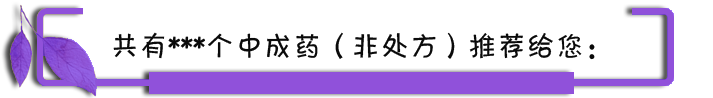
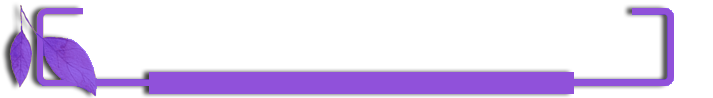
列表页面完善

Changed region(s): [[0.1543, 0.3367, 0.8331, 0.6122]]

diff --git a/lib/search_result.dart b/lib/search_result.dart
@@ -62,7 +62,7 @@ class ResultState extends State<ResultStatePage> {
     if (searchResult == null) {
       return Center(child: CircularProgressIndicator());
     } else {
-      print("getBody dataList lentth:${dataList.length}");
+      print("getBody dataList lentth:${dataList[0].data.toString()}");
       return new ListView.builder(
           itemCount: dataList.length,
           itemBuilder: (BuildContext context, int position) {
@@ -89,6 +89,7 @@ class ResultState extends State<ResultStatePage> {
                   style: TextStyle(
                       fontWeight: FontWeight.normal,
                       color: Colors.black,
+                      decoration: TextDecoration.none,
                       fontSize: 18),
                 ),
                 KeyWordView(submitWords, fun),
@@ -134,9 +135,8 @@ class ResultState extends State<ResultStatePage> {
         .add(ListItemData(ListItemData.TYPE_CHECKBOX, sResult.diseaseWords));
     var size = sResult.resultlist?.gridModel?.length;
     print("共有$size个中成药（非处方）推荐给您");
-    var data =
-        ListItemData(ListItemData.TYPE_ITEM_TITLE, "共有$size个中成药（非处方）推荐给您：");
-    dataList.add(data);
+    dataList.add(
+        ListItemData(ListItemData.TYPE_ITEM_TITLE, "共有$size个中成药（非处方）推荐给您："));
 
     List<GridModel> gridList = sResult?.resultlist?.gridModel;
     print("gridList length ${gridList.length}");
@@ -148,19 +148,116 @@ class ResultState extends State<ResultStatePage> {
   }
 
   getRow(ListItemData data) {
-    print("getRow ->${submitWords.length}  ${data.type}");
+    print("getRow ->${data.data}  ${data.type}");
     switch (data.type) {
       case ListItemData.TYPE_HEADER:
         return getKeyWordBoxView(submitWords, _delWord);
       case ListItemData.TYPE_IMAGE:
-
       case ListItemData.TYPE_CHECKBOX:
-      //todo 复选框列表
+        //todo 复选框列表
+        return GestureDetector(
+          onTap: () => Navigator.of(context).pop(),
+          child: Image.asset("image/icon_gohome.png"),
+        );
       case ListItemData.TYPE_ITEM_TITLE:
+        return getListTitleView(data.data);
       case ListItemData.TYPE_ITEM:
-        //
-        return Image.asset("icon_gohome");
+        return getListItemView(data.data);
     }
+  }
+
+  getListTitleView(String data) {
+    return Container(
+      margin: EdgeInsets.only(left: 5, right: 5),
+      decoration: BoxDecoration(
+        image: new DecorationImage(
+            image: new AssetImage("image/result_title_img.png"),
+            fit: BoxFit.fill),
+      ),
+      alignment: Alignment.center,
+      child: Text(
+        data,
+        style: TextStyle(
+          color: Colors.black,
+          fontSize: 12,
+        ),
+      ),
+    );
+  }
+
+  getListItemView(GridModel data) {
+    var styleTitle = TextStyle(
+        color: Colors.black45,
+        fontSize: 14,
+        fontStyle: FontStyle.normal,
+        decoration: TextDecoration.none);
+    var styleData = TextStyle(
+        color: Colors.lightBlue, fontSize: 14, decoration: TextDecoration.none);
+    return Column(
+      crossAxisAlignment: CrossAxisAlignment.start,
+      children: <Widget>[
+        Row(
+          children: <Widget>[
+            Text(
+              data.medicinalName,
+              style: TextStyle(color: Colors.lightBlue, fontSize: 16,decoration: TextDecoration.none,),
+            ),
+            Text(
+              data.medicinalIsInsurance,
+              style: TextStyle(
+                  decoration: TextDecoration.none,
+                  color: data.medicinalIsInsurance == "医保"
+                      ? Colors.green
+                      : Colors.pinkAccent,
+                  fontSize: 12),
+            )
+          ],
+        ),
+        RichText(
+          overflow: TextOverflow.visible,
+          text: TextSpan(
+              text: "药厂：",
+              children: [
+                TextSpan(
+                  text: data.medicinalManufacturingEnterprise,
+                  style: styleTitle,
+                ),
+              ],
+              style: styleData),
+        ),
+        RichText(
+          overflow: TextOverflow.visible,
+          text: TextSpan(
+              text: "规格：",
+              children: [
+                TextSpan(
+                  text: data.medicinalSpecification,
+                  style: styleTitle,
+                ),
+              ],
+              style: styleData),
+        ),
+        RichText(
+          overflow: TextOverflow.visible,
+          text: TextSpan(
+              text: "用药禁忌：",
+              children: [
+                TextSpan(
+                  text: data.medicinalContraindication,
+                  style: styleTitle,
+                ),
+              ],
+              style: styleData),
+        ),
+        Text(
+          "推荐系数：${data.medicinalRecommedKpi}",
+          style: TextStyle(
+              color: Colors.orange,
+              fontSize: 14,
+              decoration: TextDecoration.none),
+        ),
+      ],
+    );
   }
 }
 
